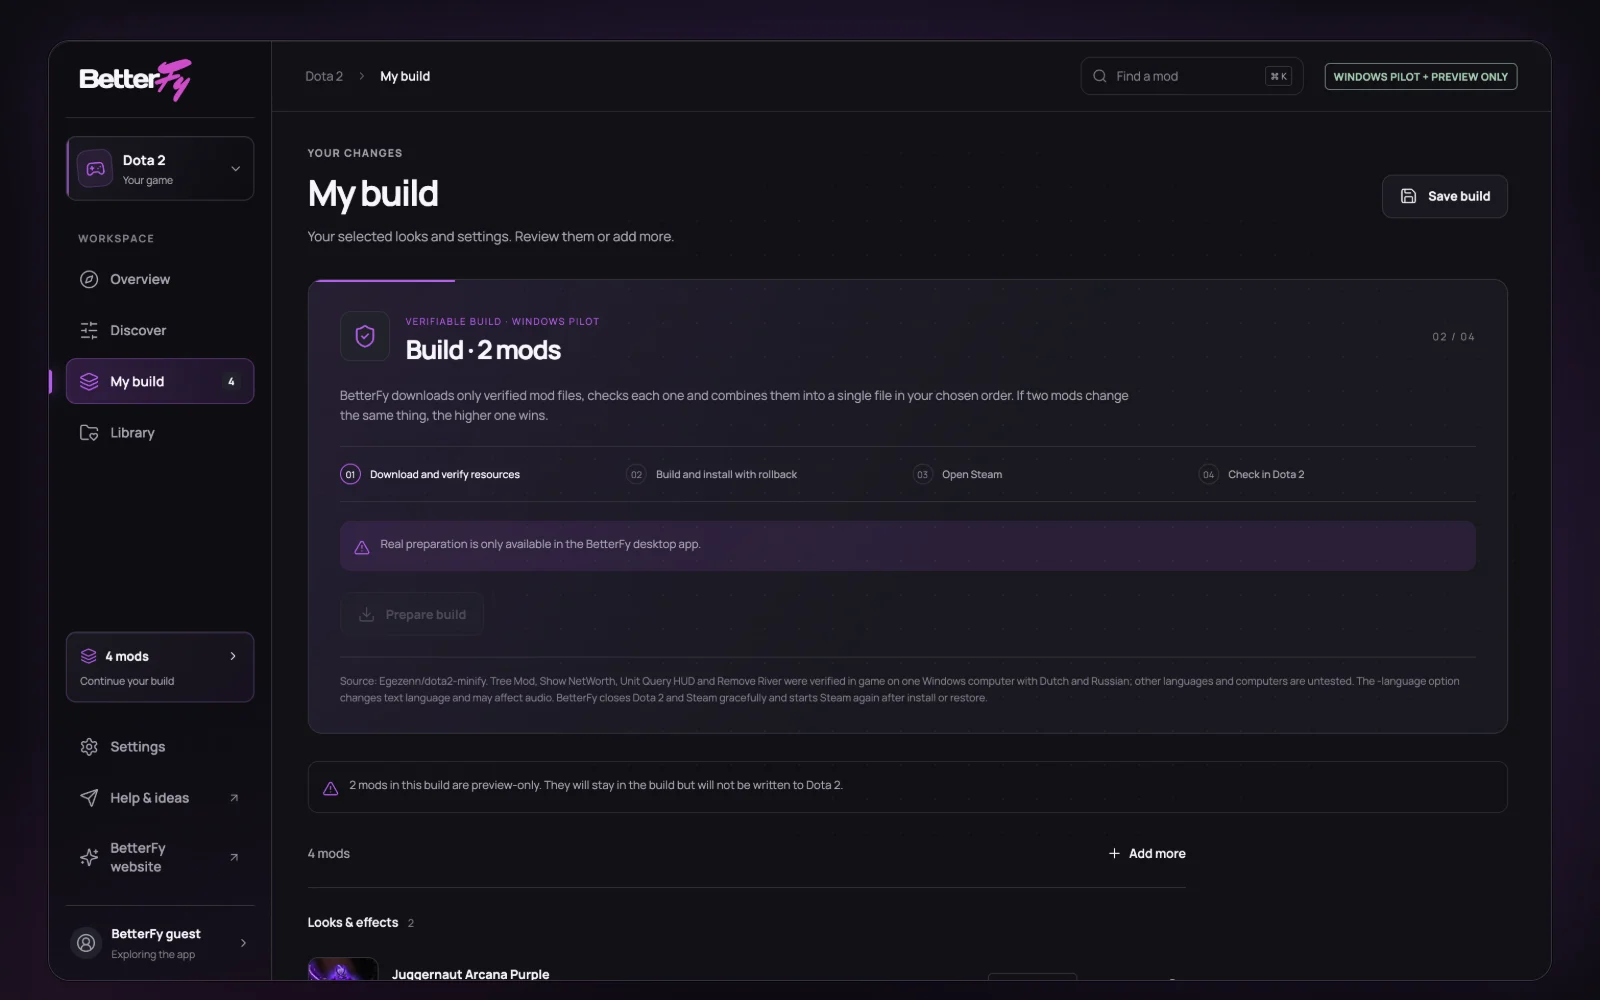
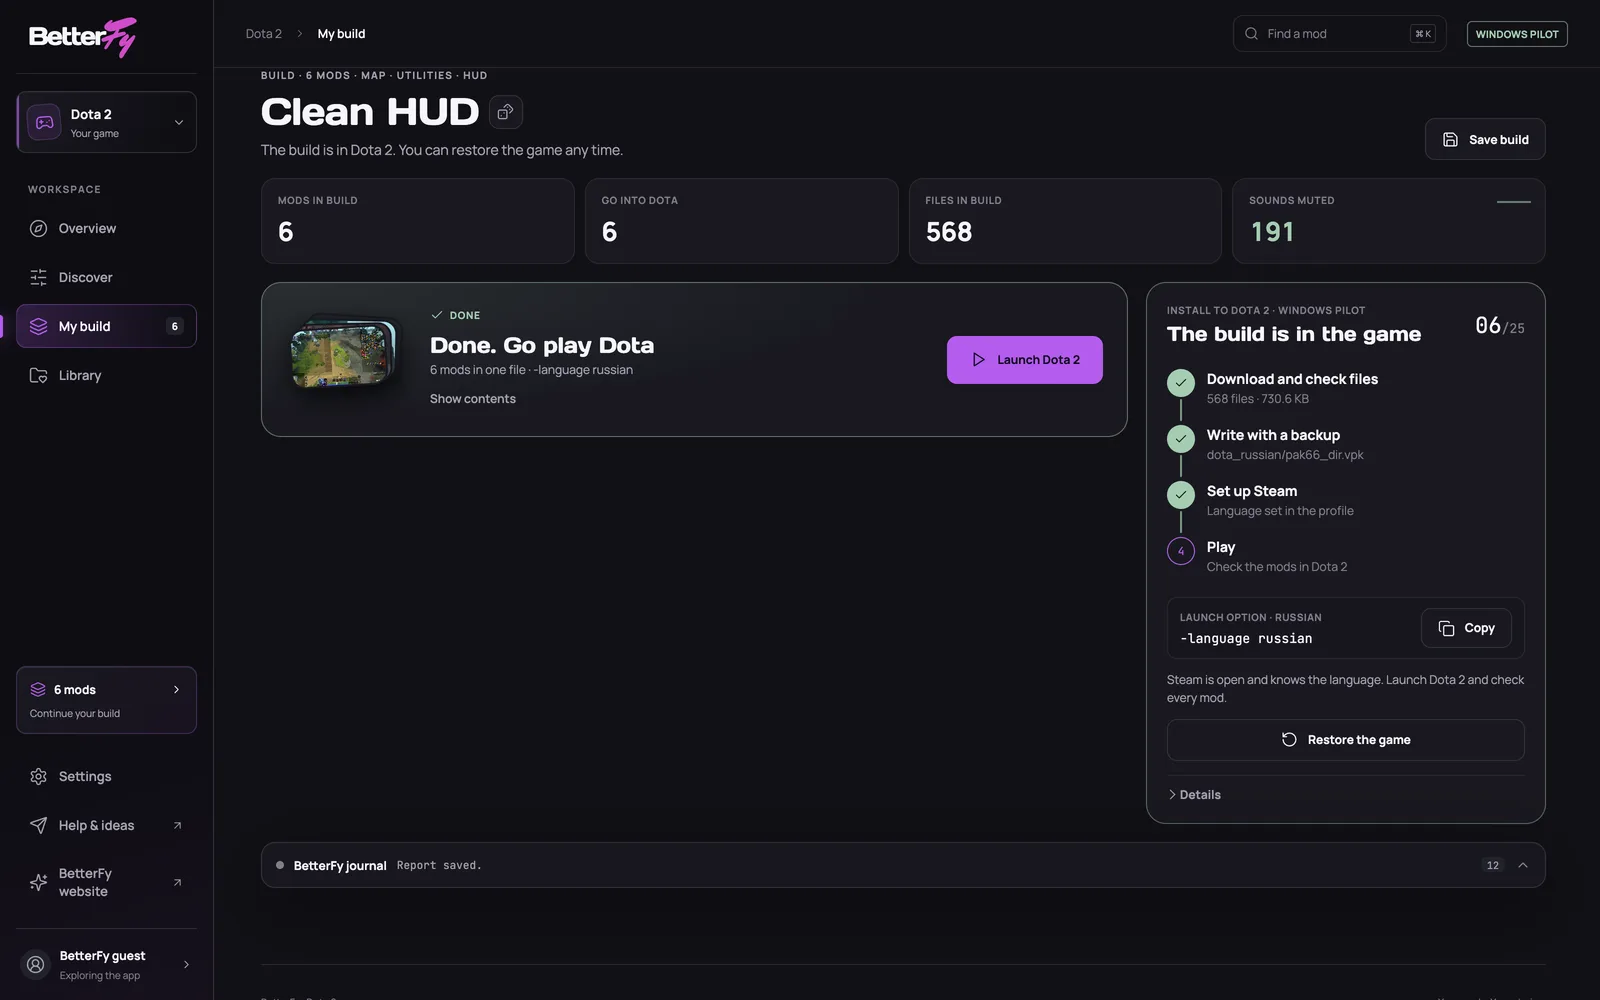
feat(site): show the new build screen from EA.28 and a gallery of real app screens
The hero slides use current app screens, the build section shows the finished build with the journal and says the screen shipped in EA.28 (Steam language detection and the English slot still unverified on Windows), and a gallery shows the language choice, ready-made sets, notices and the game tuning catalog, in Russian and English.

diff --git a/website/src/Site.tsx b/website/src/Site.tsx
@@ -62,7 +62,7 @@ const copy = {
       {title:"Выбери моды",text:"Добавь моды в сборку и расставь их по порядку: если два мода меняют одно и то же, побеждает верхний. Конфликты видны сразу."},
       {title:"BetterFy проверит и соберёт",text:"Скачивает файлы с закреплённого коммита, сверяет каждый по SHA-256, собирает один VPK, делает резервную копию и ставит его в языковой слот игры."},
       {title:"Не понравилось — откатил",text:"Одна кнопка возвращает файлы игры и параметры запуска Steam. Журнал не даст затереть чужие изменения."}],scene:["Загрузка","Проверка SHA-256","Сборка VPK","Бэкап и установка"],restored:"Игра как была"},
-    builder:{tag:"НОВЫЙ ЭКРАН СБОРКИ · В РАБОТЕ",a:"Собери, назови,",b:"откати одной кнопкой.",body:"Новый экран «Моя сборка» готовится для следующих сборок раннего доступа. В вышедших сборках его ещё нет. Вот что в нём будет.",points:[
+    builder:{tag:"НОВЫЙ ЭКРАН СБОРКИ · С EA.28",a:"Собери, назови,",b:"откати одной кнопкой.",body:"Новый экран «Моя сборка» вышел в сборке раннего доступа 28. На Windows его ещё проверяем: определение языка из Steam и английский слот пока не проверены в игре.",gallery:{tag:"КАК ЭТО ВЫГЛЯДИТ",a:"Настоящие экраны приложения",items:[{id:"language",text:"Язык как в Dota сейчас: BetterFy читает его из Steam."},{id:"ready-made-sets",text:"Готовые наборы: видно, что внутри и что уже в сборке."},{id:"clear-errors",text:"Понятные ошибки: что случилось и что сделать дальше."},{id:"game-tuning",text:"Каталог: 25 модов настройки игры ставятся сегодня."}]},points:[
       {title:"Имя по содержимому",text:"Три заглушённых звука — «Тишина в таверне». Кубик предложит другое имя."},
       {title:"Журнал",text:"Каждый шаг подготовки, установки и отката одной строкой. Его можно скопировать для поддержки."},
       {title:"Язык как в Dota сейчас",text:"BetterFy читает язык игры из Steam и сам выбирает языковой слот."},
@@ -121,7 +121,7 @@ const copy = {
       {title:"Pick mods",text:"Add mods to your build and order them: when two mods change the same thing, the higher one wins. Conflicts show up right away."},
       {title:"BetterFy checks and builds",text:"It downloads files from a pinned commit, checks each by SHA-256, builds one VPK, makes a backup and installs it into the game's language slot."},
       {title:"Changed your mind? Restore",text:"One button puts the game files and Steam launch options back. The journal will not overwrite changes made by something else."}],scene:["Download","SHA-256 check","Build VPK","Backup and install"],restored:"Game restored"},
-    builder:{tag:"NEW BUILD SCREEN · IN PROGRESS",a:"Build it, name it,",b:"undo it with one button.",body:"A new My build screen is being prepared for the next Early Access builds. Released builds do not have it yet. Here is what it brings.",points:[
+    builder:{tag:"NEW BUILD SCREEN · SINCE EA.28",a:"Build it, name it,",b:"undo it with one button.",body:"The new My build screen shipped in Early Access build 28. We are still checking it on Windows: Steam language detection and the English slot are not verified in game yet.",gallery:{tag:"WHAT IT LOOKS LIKE",a:"Real screens from the app",items:[{id:"language",text:"Same language as Dota now: BetterFy reads it from Steam."},{id:"ready-made-sets",text:"Ready-made sets show what is inside and what is already in your build."},{id:"clear-errors",text:"Clear errors: what happened and what to do next."},{id:"game-tuning",text:"Catalog: 25 game tuning mods install today."}]},points:[
       {title:"Named by what is in it",text:"Three muted sound mods read as “Quiet in the Tavern”. The dice offers another name."},
       {title:"Journal",text:"Every step of preparing, installing and restoring, one line each. Copy it for support."},
       {title:"Language as in Dota now",text:"BetterFy reads the game's language from Steam and picks the language slot itself."},
@@ -214,18 +214,6 @@ function ModCatalog({t}:{t:Copy}){
 
 // A still picture of the new build screen, drawn in HTML so it follows the
 // language and theme. It is decorative: the list next to it says the same.
-function BuilderMock({t}:{t:Copy}){
-  const b=t.builder.mock;
-  return <div className="bmock" aria-hidden="true">
-    <div className="bmock-head"><span className="micro">{b.label}</span><b className="bmock-name">{b.name}<Dices size={16}/></b><small>{b.sub}</small></div>
-    <div className="bmock-chips">{b.chips.map((chip,index)=><span key={chip} className={index===2?"is-conflict":""}>{index===2?<AlertTriangle size={12}/>:<Check size={12}/>}{chip}</span>)}</div>
-    <div className="bmock-lang"><Languages size={15}/><span>{b.lang}</span><b>{b.langValue}</b><em>{b.langNote}</em></div>
-    <div className="bmock-notice"><AlertTriangle size={16}/><div><b>{b.conflict}</b><span>{b.conflictText}</span></div><span className="bmock-fix">{b.fix}</span></div>
-    <div className="bmock-actions"><span className="bmock-primary"><ArrowDownToLine size={15}/>{b.install}</span><span className="bmock-ghost"><RotateCcw size={14}/>{b.restore}</span></div>
-    <div className="bmock-journal"><span className="console-dot is-live"/><b>{b.journal}</b><span>{b.journalLast}</span><ChevronDown size={15}/></div>
-  </div>;
-}
-
 function ProfilePanel({language,t,close,stage,session,token,onEmailSignedIn,code,setCode,error,storageWarning,verify,avatar,sessions,revoke,logout}:{language:Language;t:typeof copy.ru|typeof copy.en;close:()=>void;stage:AuthStage;session:WebSession|null;token:string|null;onEmailSignedIn:(data:WebSession&{sessionToken:string})=>void;code:string;setCode:(v:string)=>void;error:string;storageWarning:boolean;verify:()=>void;avatar:string|null;sessions:DeviceSession[];revoke:(s:DeviceSession)=>void;logout:()=>void}){
   const access=session?.accessTier==="premium"?t.auth.premium:t.auth.early;
   const[emailMode,setEmailMode]=useState<"choice"|"address"|"code">("choice"),[email,setEmail]=useState(""),[emailCode,setEmailCode]=useState(""),[emailBusy,setEmailBusy]=useState(false),[emailError,setEmailError]=useState(""),[emailIdentity,setEmailIdentity]=useState<{linked:boolean;emailHint:string|null}|null>(null);
@@ -311,7 +299,7 @@ export default function Site(){
     <StatusSection t={t}/>
     <section className="mods shell" id="mods"><div className="section-intro reveal"><p className="eyebrow"><ShieldCheck size={13}/>{t.mods.tag}</p><h2>{t.mods.a}<br/><strong>{t.mods.b}</strong></h2><p>{t.mods.body}</p></div><div className="mod-grid">{t.mods.items.map((mod,index)=><article className="mod-card reveal" key={mod.id} data-spotlight style={{transitionDelay:`${index*.06}s`}}><div className="mod-image">{mod.image?<img src={asset(mod.image)} alt="" loading="lazy"/>:<span className="mod-image-icon"><Timer size={30}/></span>}<em className={`badge-${mod.badge}`}>{mod.badge==="verified"?<Check size={12}/>:<Braces size={12}/>}{t.mods.badges[mod.badge]}</em></div><div className="mod-copy"><h3>{mod.name}</h3><p>{mod.text}</p><small>{t.mods.by} {mod.author}</small></div></article>)}</div><ModCatalog t={t}/></section>
     <section className="how" id="how"><div className="shell"><div className="section-intro reveal"><p className="eyebrow">{t.how.tag}</p><h2>{t.how.a}<br/><strong>{t.how.b}</strong></h2></div><ol className="how-steps">{t.how.steps.map((item,index)=><li className="how-step reveal" key={index} data-spotlight style={{transitionDelay:`${index*.08}s`}}><div className="stage-visual"><StepScene index={index} language={language} t={t}/></div><div className="how-copy"><span>{String(index+1).padStart(2,"0")}</span><h3>{item.title}</h3><p>{item.text}</p></div></li>)}</ol></div></section>
-    <section className="builder shell" id="builder" aria-labelledby="builder-title"><div className="builder-inner reveal" data-spotlight><div className="builder-copy"><p className="eyebrow"><Layers size={13}/>{t.builder.tag}</p><h2 id="builder-title">{t.builder.a}<br/><strong>{t.builder.b}</strong></h2><p>{t.builder.body}</p><ul className="builder-points">{t.builder.points.map(point=><li key={point.title}><Check size={15}/><span><b>{point.title}</b>{point.text}</span></li>)}</ul></div><BuilderMock t={t}/></div></section>
+    <section className="builder shell" id="builder" aria-labelledby="builder-title"><div className="builder-inner reveal" data-spotlight><div className="builder-copy"><p className="eyebrow"><Layers size={13}/>{t.builder.tag}</p><h2 id="builder-title">{t.builder.a}<br/><strong>{t.builder.b}</strong></h2><p>{t.builder.body}</p><ul className="builder-points">{t.builder.points.map(point=><li key={point.title}><Check size={15}/><span><b>{point.title}</b>{point.text}</span></li>)}</ul></div><button type="button" className="poster-button builder-shot" onClick={()=>setPreview({src:asset(`site-mkt-install-undo-${language}.webp`),alt:t.builder.a})} aria-label={language==="ru"?"Открыть экран сборки":"Open the build screen"}><img src={asset(`site-mkt-install-undo-${language}.webp`)} width="1600" height="1200" loading="lazy" alt={language==="ru"?"Готовая сборка BetterFy с откатом и журналом установки":"Finished BetterFy build with restore and the install journal"}/><span>{t.open}<ExternalLink size={12}/></span></button></div><div className="shot-gallery reveal"><p className="eyebrow">{t.builder.gallery.tag}</p><h3>{t.builder.gallery.a}</h3><div className="shot-grid">{t.builder.gallery.items.map(item=><figure key={item.id}><button type="button" className="poster-button" onClick={()=>setPreview({src:asset(`site-mkt-${item.id}-${language}.webp`),alt:item.text})} aria-label={item.text}><img src={asset(`site-mkt-${item.id}-${language}.webp`)} width="1600" height="1200" loading="lazy" alt={item.text}/></button><figcaption>{item.text}</figcaption></figure>)}</div></div></section>
     <section className="looks shell"><div className="reveal"><article className={`feature feature-reverse ${darkLooks?"is-dark":"is-light"}`} data-spotlight><button className="poster-button" onClick={()=>setPreview({src:looksImage,alt:t.looks.a})} aria-label={language==="ru"?"Открыть экран обликов":"Open the looks screen"}><img key={looksImage} src={looksImage} width="1536" height="1024" loading="lazy" alt={language==="ru"?"Каталог обликов BetterFy":"BetterFy looks catalog"}/><span>{t.open}<ExternalLink size={12}/></span></button><div className="feature-copy"><div className="theme-switch" role="group" aria-label={language==="ru"?"Тема превью":"Preview theme"}><span className="switch-pill" aria-hidden="true" style={{transform:`translateX(${darkLooks?100:0}%)`}}/><button type="button" aria-pressed={!darkLooks} className={!darkLooks?"active":""} onClick={()=>setDarkLooks(false)}><Sun size={13}/>{t.light}</button><button type="button" aria-pressed={darkLooks} className={darkLooks?"active":""} onClick={()=>setDarkLooks(true)}><Moon size={13}/>{t.dark}</button></div><p className="micro">{t.looks.tag}</p><h3>{t.looks.a}<br/>{t.looks.b}</h3><p>{t.looks.body}</p><ul>{t.looks.items.map(x=><li key={x}><Check size={14}/>{x}</li>)}</ul></div></article></div></section>
     <section className="faq shell" id="faq"><div className="section-intro reveal"><p className="eyebrow">{t.faq.tag}</p><h2>{t.faq.a}</h2></div><div className="faq-list reveal">{t.faq.items.map((item,index)=>{const open=openFaq===index;return <div className={`faq-item ${open?"is-open":""}`} key={item.q}><button type="button" aria-expanded={open} aria-controls={`faq-${index}`} id={`faq-q-${index}`} onClick={()=>setOpenFaq(open?null:index)}><span>{item.q}</span><Plus size={18}/></button><div className="faq-answer" id={`faq-${index}`} role="region" aria-labelledby={`faq-q-${index}`}><div><p>{item.a}</p></div></div></div>})}</div></section>
     <section className="download-section" id="download"><div className="shell download-inner reveal" data-spotlight><div><p className="eyebrow">{t.download.tag}</p><h2>{t.download.a}<br/><strong>{t.download.b}</strong></h2><p>{t.download.body}</p></div><div className="download-cta"><button className="action primary huge sheen" onClick={()=>setDownload(true)}><span className="action-icon"><ArrowDownToLine size={19}/></span><b>{t.download.check}</b><ArrowRight size={19}/></button><span>{t.download.system} · {t.download.prerelease}</span><a href={`${repo}/releases`}>{t.download.versions}<ExternalLink size={12}/></a></div></div></section>

diff --git a/website/src/site.css b/website/src/site.css
@@ -626,3 +626,10 @@ h1 strong,h2 strong{font-weight:400}
   .bmock-journal{grid-template-columns:auto minmax(0,1fr) auto}
   .bmock-journal>span:not(.console-dot){display:none}
 }
+.builder-shot{align-self:center;filter:drop-shadow(0 30px 60px #0008)}
+.shot-gallery{margin-top:56px}
+.shot-gallery h3{margin:6px 0 22px;font-family:"Days One","Manrope",sans-serif;font-weight:400;font-size:clamp(22px,2.4vw,30px);letter-spacing:-.03em}
+.shot-grid{display:grid;grid-template-columns:repeat(2,minmax(0,1fr));gap:22px}
+.shot-grid figure{margin:0;display:flex;flex-direction:column;gap:12px}
+.shot-grid figcaption{color:var(--muted);font-size:14px;line-height:1.5}
+@media (max-width:760px){.shot-grid{grid-template-columns:1fr}.shot-gallery{margin-top:36px}}
